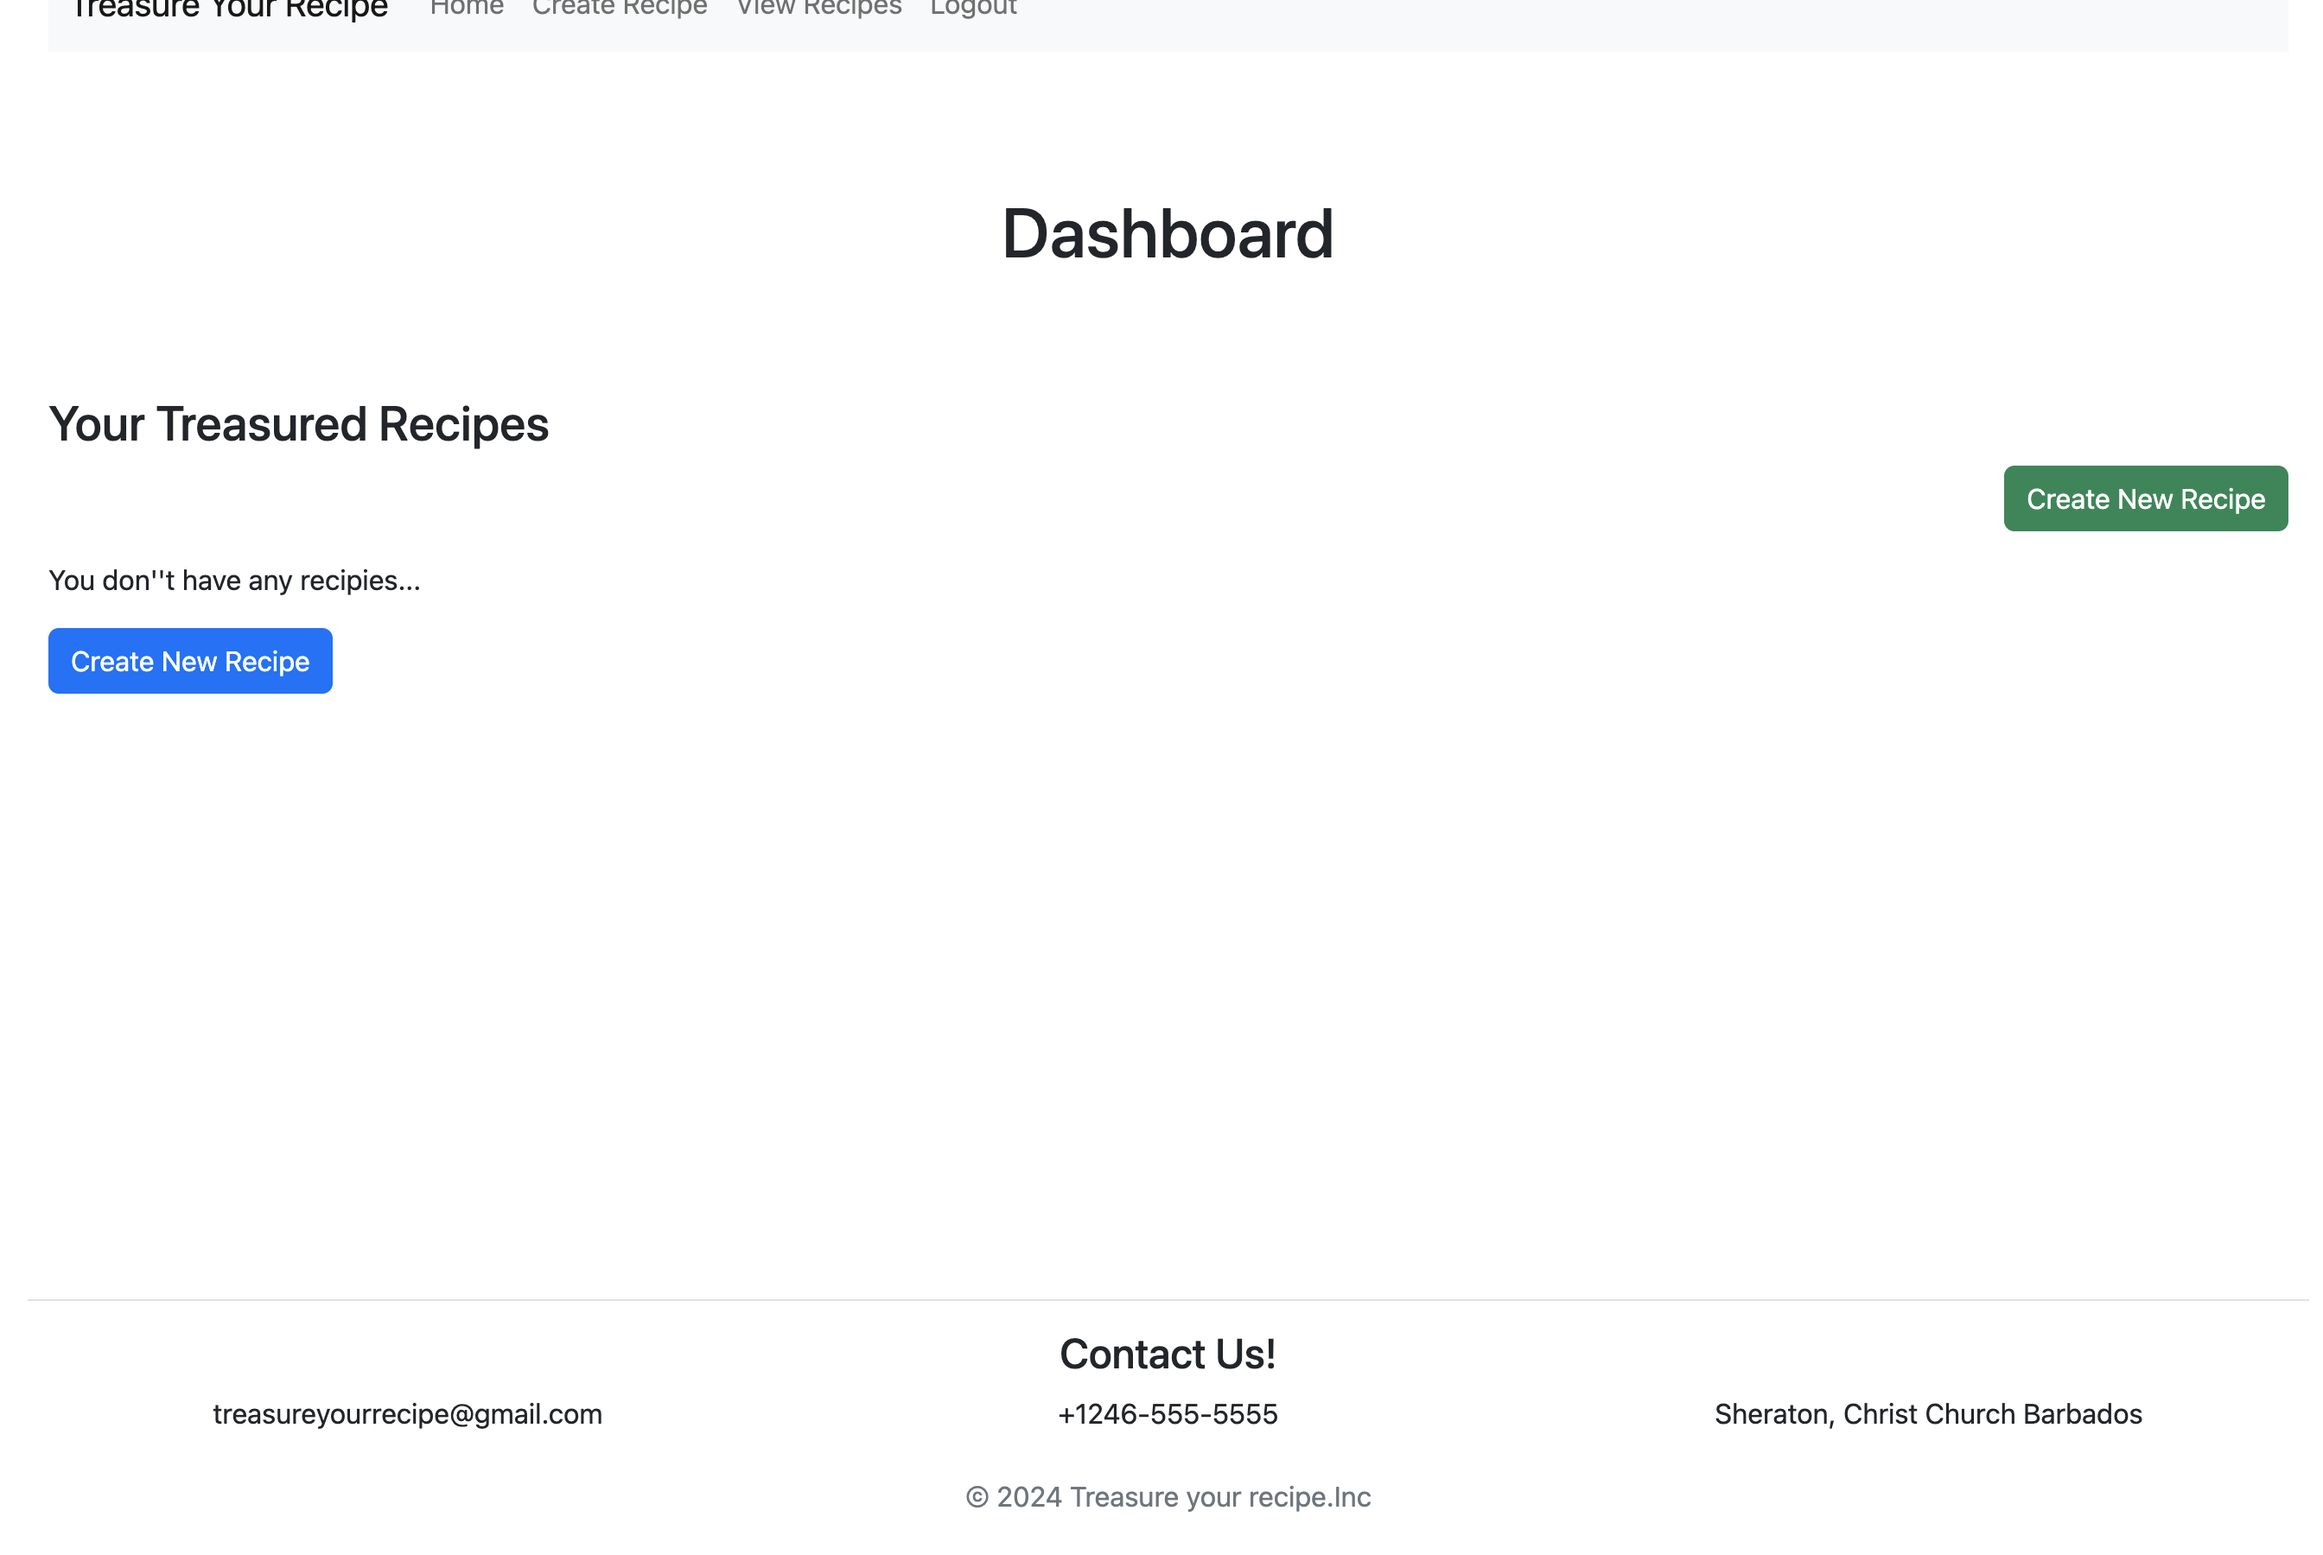
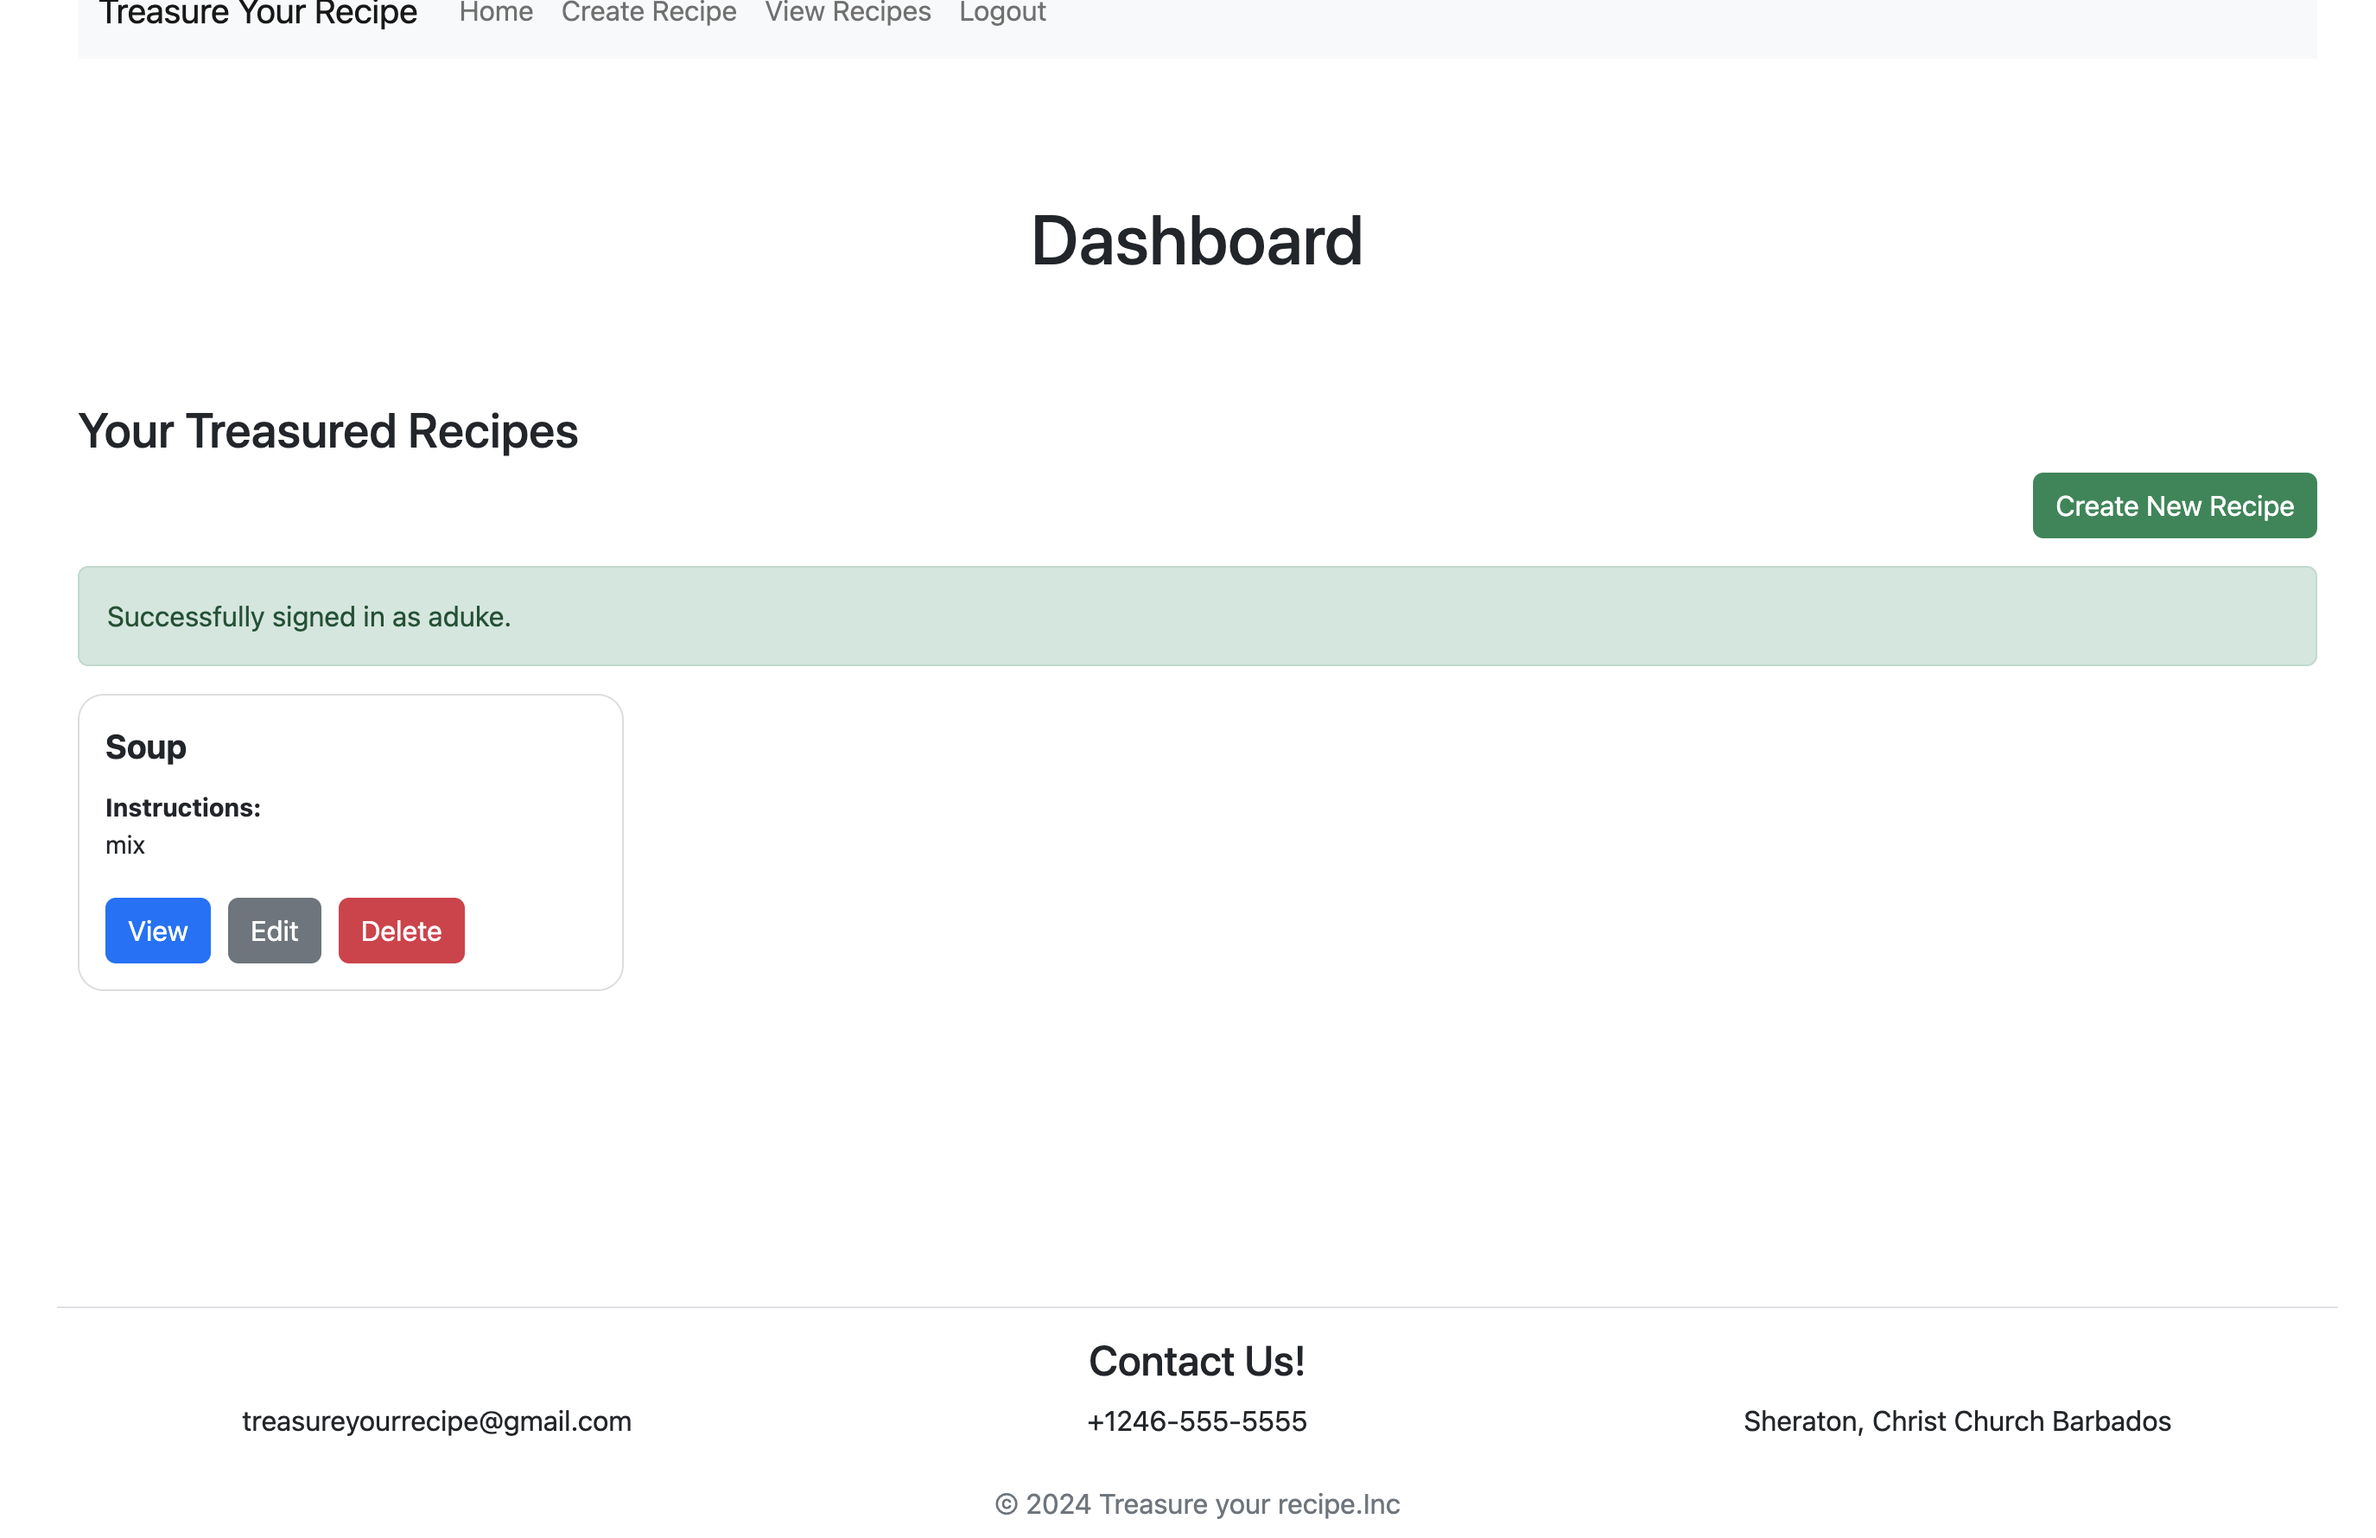
remove email change page from signout nav bar and completed readme file

diff --git a/templates/account/base.html b/templates/account/base.html
@@ -25,7 +25,6 @@
             <div class="collapse navbar-collapse" id="navbarNavAltMarkup">
               <div class="navbar-nav">
                 {% if user.is_authenticated %}
-                <a class="nav-link" href="{% url 'account_email' %}">{% trans "Change Email" %}</a>
                 <a class="nav-link" href="{% url 'account_logout' %}">{% trans "Sign Out" %}</a>
                 {% else %}
                 <a class="nav-link" href="{% url 'account_login' %}">{% trans "Sign In" %}</a>

diff --git a/recipe/templates/recipe/dashboard/dashboard.html b/recipe/templates/recipe/dashboard/dashboard.html
@@ -37,9 +37,6 @@
     {% else %}
 
     <p>You don''t have any recipies... </p>
-    <a href= "{% url 'create' %}">
-        <button type="button" class="btn btn-primary">Create New Recipe</button>
-    </a>
 
     {% endif %}
 </div>

diff --git a/README.md b/README.md
@@ -3,17 +3,30 @@
 > [Live Site](https://treasure-your-recipe-812ee6481b1f.herokuapp.com/)
 
 ## Project Overview
-This project was created due to my love for cooking. My family has hundreds for secret recipes sent down from generations. Saving these recipes or as i like to call it "treasuring these recipes' is very important to me. This gave me the idea to create an app that will allow me to store these recipes all these fantastic recipes in one place so you can never lose them.
+This project was created due to my love for cooking. My family has hundreds for secret recipes sent down from generations. Saving these recipes or as i like to call it "treasuring these recipes' is very important to me. This gave me the idea to create an app that will allow me to store these recipes all these fantastic recipes in one place so you can never lose them. This allows users to have a quick and easy way to carry their recipes with them. With this app a user can never lose a Tearsured Recipe again!
+
+## About App
+This application allows users to add, delete, edit, view all and/or view one recipe. Customers can signup easliy using an emailaddress and password. The user is taken to the login home page. here the menu bar will be slightly different with links that will take you to your Dashboard. Here to can start creating your recipes. If you may need to delete a recipe you will be prompted to confirm that you are sure you want to delete. Once this is confirmed the recipe will be deleted and a message will appear that the action was successful. 
+Users can only view the recipes they have created. This is also the case for any action taken to the recipes.. for example only the creator of a recipe can view or delete. This ensures security throughout the application. The app was created with just enought to to make the client happy and have workable CRUD functionality. From here we can expand this app into something larger.
+
+## Color Scheme 
+I decided to go with a more genertic approach, using bootstrap color conventions to style the buttons on the page. This gives a user friendly feeling to the site with with colors that are used by most web app users.
+
+## Planning
+### Tools Used:
+- Wireframes
+- Agile Approach (Moswco) (MVP) (User stories)
+- Code Institute Learning vidoes
 
 ## Wireframes
 
-![Wireframe of Home Page](wireframe/home-page.png)
+![Wireframe of Home Page](wireframes/home-page.png)
 - Landing page
 
-![Wireframe of User Dashboard](wireframe/dashboard.png)
+![Wireframe of User Dashboard](wireframes/dashboard.png)
 - Dashboard
 
-![Wireframe of Create Page](wireframe/create-page.png)
+![Wireframe of Create Page](wireframes/create-page.png)
 - Create Recipe Page
 
 ## User Stories
@@ -23,42 +36,35 @@ This project was created due to my love for cooking. My family has hundreds for 
 <details>
 <summary>Screenshot of The Login Form</summary>
 
-![Screenshot of The Login Form]()
+![Screenshot of The Login Form](readme/login.png)
 
 </details>
 <br>
 <details>
 <summary>Screenshot of The Signup Form</summary>
 
-![Screenshot of The Register Form]()
-
-</details>
-<br>
-<details>
-<summary>Screenshot of The Dashboard</summary>
-
-![Screenshot of The Register Form]()
+![Screenshot of The Register Form](readme/signup.png)
 
 </details>
 <br>
 <details>
 <summary>Screenshot of The Create recipe Page</summary>
 
-![Screenshot of The Register Form]()
+![Screenshot of The Create Page](readme/create.png)
 
 </details>
 <br>
 <details>
-<summary>Screenshot of The Edit Page</summary>
+<summary>Screenshot of The View Page</summary>
 
-![Screenshot of The Register Form]()
+![Screenshot of The Edit Page](readme/view.png)
 
 </details>
 <br>
 <details>
-<summary>Screenshot of The Delete message</summary>
+<summary>Screenshot of The Dashboard message</summary>
 
-![Screenshot of The Register Form]()
+![Screenshot of The Dashboard Form](readme/dashboard.png)
 
 </details>
 
@@ -76,17 +82,19 @@ See some of the Furtureideas listed below:
 - When creating a recipe and you accidently lose the page, what was entered wi;; be save to draft so you can contiune at and not lose you information.
 - Choose from a list of food cartaegories
 
-## Langueges Used
+## Langueges / Frameworks Used
 - HTML5
 - CSS
-- JAVASCRIPT
 - PYTHON
+- BOOTSTRAP5
+- DJANGO
+
 
 ## Agile Deveploment 
 The project was built following Agile Principle. Epic stories were create and placed into todo's and draged across until completion.
 
 ## Testing
-The testing of this site was done manually. See table below
+The Site was fully tested. This was done manually. See table below
 
 | Test                                  | Action                                                                                       | Result |
 | ------------------------------------- | -------------------------------------------------------------------------------------------- | ------ |
@@ -99,18 +107,90 @@ The testing of this site was done manually. See table below
 
 
 ## Site Testing 
+![Screenshot-python-report](readme/pyhton_test.png)
 - CI Python Validation Results
+![Screenshot-css-report](readme/css_test.png)
 - CSS Validator
+![Screenshot-html-report](readme/html_test.png)
 - HTML Validator
-- Light House
+![Screenshot-lighthouse-report](readme/lightphone_mobile_test.png)
+- Light House Mobile
+![Screenshot-lighthouse-report](readme/lightphone_desktop_test.png)
+- Light House Desktop
 
 ## Bugs
 
+## Validator Testing
+
+- HTML
+
+No errors were returned when passing through the official W3C Validator.
+ 
+
+#### CSS
+
+No errors were returned when passing through the official (Jigsaw) Validator [Results](https://jigsaw.w3.org/css-validator/validator?uri=https%3A%2F%2Fayishasandiford.github.io%2Fyogawithme-pp1%2Findex.html&profile=css3svg&usermedium=all&warning=1&vextwarning=&lang=en)
+
+- Lighthouse
+
+I generated a lighthouse report on both desktop and mobile view. The Performance low score is due to the embedded youtube videos used on my site. 
+Solution - This can be resolved by adding a placeholder so that the page can load more quickly and then using javascript to dynamically add the embedded YouTube iframe to the page.
+
+![Screenshot-lighthouse-report-one.png](readme/lighthouse_desktop_test.png)
+
+
+Below is the score of the lighthouse generated report of the About Us page
+No videos were used on this page. This report was good. 
+  
+![Screenshot-lighthouse-generated-report-two.png](readme/lighthouse_mobile_test.png)
 
 ## Deployment 
+1) Create a Heroku account by going to https://signup.heroku.com/
+2) Create a new app by clicking the "New" button in the top right corner and then click "Create new app".
+3) Enter a name for the app and select the region closest to you.
+4) Click the "Create app" button.
+5) Select "settings" from the top menu.
+6) Click the "Reveal Config Vars" button.
+7) Enter the following environment variables with your values:
+SECRET_KEY
+DEBUG
+DATABASE_URL
+8) Click buildpacks from the top menu.
+9) Add the following buildpacks:
+heroku/python
+10) Click the "Deploy" tab from the top menu.
+11) Click the "Connect to GitHub" button.
+12) Search for your repository and click the "Connect" button.
+13) Click the "Enable Automatic Deploys" button.
+14) Click the "Deploy Branch" button.
+15) Click the "View" button to launch the app.
 
 ## Other Notes
 The Secret key was initialy in the setting.py file. This was place here for testing purposes. However this has now been changed and placed into the evn.py which was placed in the git ignore. This prevents this sensitive information from being pushed up to github and viewed by others. 
 
 ## Credits
+### Honorable Mentions
+This project could not have happened without the support of the following people listed in no particular order:
+
+- David Bowers - My Mentor. For believing in me.
+- Omar Fitzpatrick - My brother for always being there to answer a quick question, help with planning and support!!!
+- Kyle Skeete - For always welling to help suport
+- Code Institute - For giving me this opportunity and providing me with unlimited resources, step by step videos and tons of support
+- The Code Institute Slack community where I was able to find answers to problems
+And my amazing Husband Steven Rawlins who has been my rock and my biggest cheer leader from day one. Thank you for your continuous support every step of the way!
+
+## General reference:
+
+The project was influenced by the Code Institutes code along project called 'I think therefore I blog'. 
+I relied upon [W3schools](https://www.w3schools.com/), and stack overflow for general references throughout this project.
+
+## Content
+
+- Text was generated by Chat Gpt
+- Title icon used was from [Font Awesome](https://fontawesome.com/) 
+
+
+## Images
+- Image was taken from [Freepik](https://www.freepik.com/) by pressfoto
+
 
